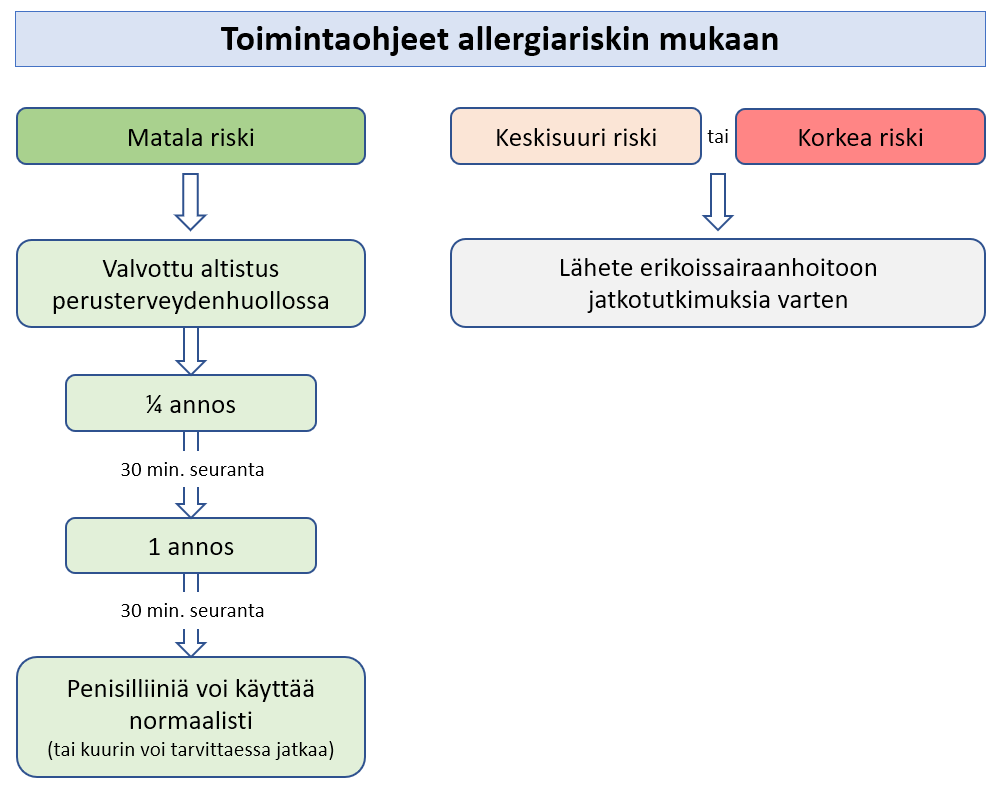
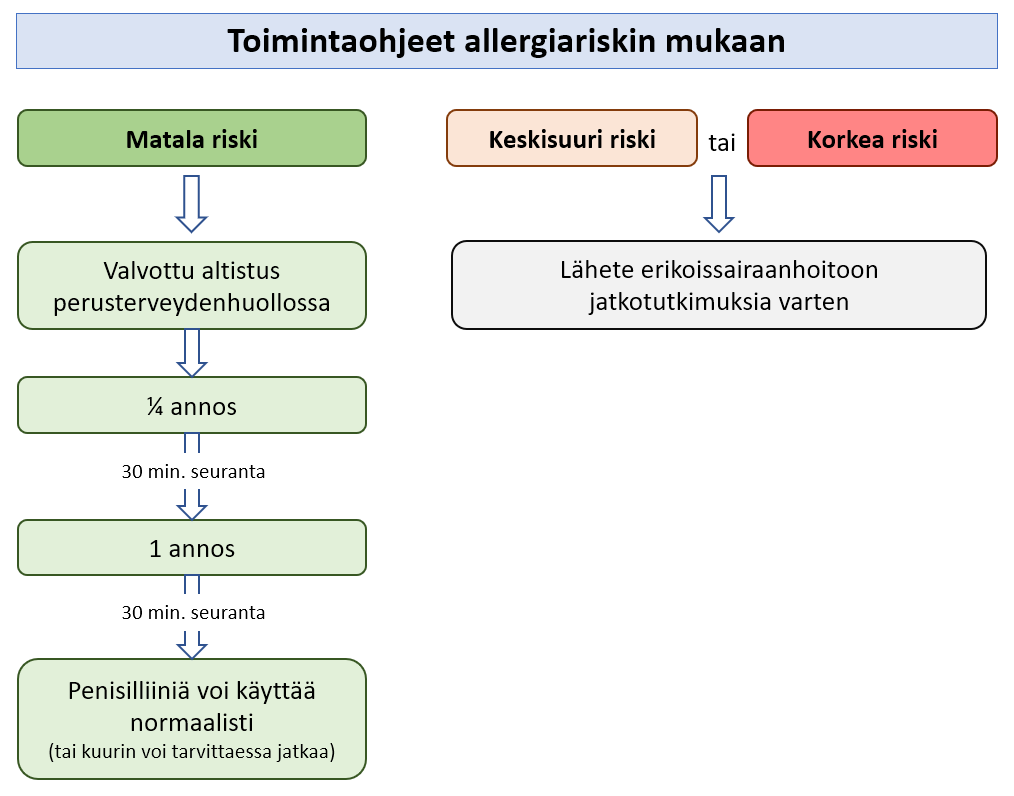
Scalability for mobile screen

diff --git a/frontend/antibiootit/src/components/Allergy.js b/frontend/antibiootit/src/components/Allergy.js
@@ -2,6 +2,7 @@ import React, { useState, useRef, useEffect } from "react";
 import { useLocation } from "react-router-dom";
 import antibioticinfotexts from "../data/antibioticinfotexts";
 import antibioticinforeferences from "../data/antibioticinforeferences";
+import Modal from 'react-modal';
 
 
 export default function Allergy() {
@@ -56,12 +57,34 @@ export default function Allergy() {
     }, []);
 
     const Penicillin = () => {
+        const [isLargeScreen, setIsLargeScreen] = useState(window.innerWidth > 650);
+
+        useEffect(() => {
+            const handleResize = () => {
+              setIsLargeScreen(window.innerWidth > 650);
+            };
+        
+            window.addEventListener('resize', handleResize);
+        
+            return () => {
+              window.removeEventListener('resize', handleResize);
+            };
+          }, []);
+
         if (!!antibioticInfoTexts && !!references) {
             return (
                 <>  
                     <AntibioticInfoTexts antibioticInfoTexts={antibioticInfoTexts} />
-                    <img className="penicillin-info-image" src="./penicillinallergyimage.PNG" alt="penicillin info image"/>
-                    <img className="penicillin-info-image2" src="./penicillinallergyimage2.PNG" alt="penicillin info image2"/>  
+                    {isLargeScreen ? (
+                        <img className="penicillin-info-image" src="./penicillinallergyimage.png" alt="penicillin info image"/>
+                    ) : (
+                        <img className="penicillin-image-mobile" src="./penicillinimagemobile.png" alt="penicillin image mobile"/>
+                    )}
+                    {isLargeScreen ? (
+                        <img className="penicillin-info-image2" src="./penicillinallergyimage2.PNG" alt="penicillin info image2"/>  
+                    ) : (
+                        <img className="penicillin-image-mobile2" src="./penicillinmobile2.png" alt="penicillin image mobile2"/>
+                    )}
                     <References references={references}/>
                 </>
             )
@@ -69,7 +92,6 @@ export default function Allergy() {
         else {
             return <p>Haetaan tietoja...</p>
         }
-
     }
 
     const References = ({ references }) => (

diff --git a/frontend/antibiootit/src/style.css b/frontend/antibiootit/src/style.css
@@ -1125,13 +1125,24 @@ aside {
 .penicillin-info-image {
     width: 100%;
     display: flex;
-    padding-bottom: 70px;
+    padding-bottom: 40px;
 }
 
 .penicillin-info-image2 {
     width: 90%;
+    height: 80%;
     display: flex;
+    justify-content: center;
     padding-bottom: 70px;
+    padding-left: 90px;
+}
+
+.penicillin-image-mobile {
+    width: 100%;
+}
+
+.penicillin-image-mobile2 {
+    width: 100%;
 }
 
 /*Scalability to mobile screen*/
@@ -1439,7 +1450,14 @@ aside {
         font-family: Arial, Helvetica, sans-serif;
     } .loading {
         top: 400px;
-    } 
+    } .text-container {
+        padding: 30px;
+    } .penicillin-info-image2 {
+        width: 100%;
+        padding-left: 0;
+    } .text-container h2 {
+        padding-top: 10px;
+    }
 }
 
 @media only screen and (min-width: 861px) {
@@ -1453,7 +1471,9 @@ aside {
         background-color: white;
     } .info-container {
         width: 100%;
-    } 
+    } .text-container {
+        width: 100%;
+    }
 }
 
 @media only screen and (min-width: 1400px) {
